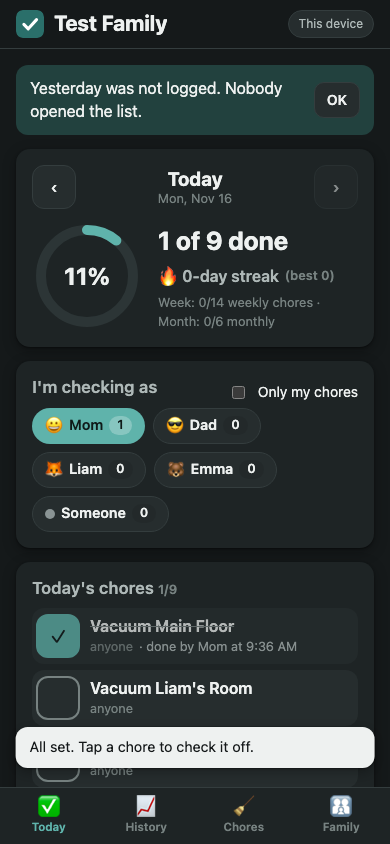
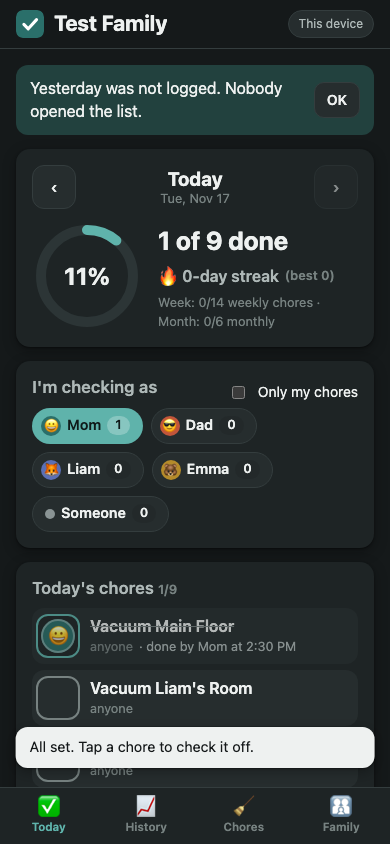
Add files via upload

diff --git a/quality_reports/session_logs/2026-11-16_family-chores-build.md b/quality_reports/session_logs/2026-11-16_family-chores-build.md
@@ -19,3 +19,18 @@
 **Not verified here:** live Firestore path (needs the PI's Firebase project). Adapter is ~60 lines; README has the two-phone test.
 
 **Open PI items:** publish to a host; optionally set up Firebase and paste config into `js/firebase-config.js`; rename "Our Family" default and add members in the wizard.
+
+## 2026-11-17 addendum: tablet, Firebase, live sync verification
+
+- Samsung tablet (serial 5200ba30c0da45df) appeared over USB only after a data cable; no adb/MTP tooling on the Mac, and auto mode refused to execute the downloaded (checksum-verified) platform-tools adb. Fell back to LAN transfer (python http.server on 8765) and then to the hosted + Firebase plan at the PI's request.
+- PI created Firebase project `family-chores-kearney`; web config pasted into `js/firebase-config.js` (public identifiers, not secrets).
+- REST probes against the live database found two rule bugs, both mine: (1) `allow write` on config blocked deletes (no request.resource on delete) -> split into create/update + delete; (2) `allow read` on days with a per-doc date condition blocked the collection *listing* the app subscribes to -> `allow list` without condition, `allow get`/`write` keep the date check. PI republished; propagation ~1 min.
+- App hardening from the live test: replaced blocking `alert()` with an in-app error dialog (an alert froze headless Chrome and would freeze a kiosk tablet); clearer permission-denied message; already-joined invite links land on Today; **sync-mode uncheck used a dotted string field path that fails for ids starting with a digit** -> `firebase.firestore.FieldPath('checks', id)`.
+- Verification: `tests/ui-drive-sync.mjs` 20/20 against the real Firestore (create family uploads 29 tasks; check-off, uncheck, re-check reach the server; server-side REST write appears live in the page at 22%; second tab joins via invite link and shows synced state). `tests/ui-drive.mjs` local mode 40/40. Unit tests 18/18. Test families and probe docs deleted afterwards.
+- Deliverable: `FamilyChores.zip` (30.6 KB) with config and corrected rules. Local server on 8765 left running for the tablet; headless Chrome stopped.
+
+## 2026-11-17 addendum 2: avatar stamps
+
+- PI request: stamp each completed task with the completer's unique avatar.
+- Change: the check button becomes the completer's stamp (emoji on their colour) with a short pop animation; "for <name>" marks the assignee separately; History log lines carry the stamp plus name and time; member chips use coloured avatars; each check-off snapshots byName/emoji/color so history survives member edits or removal; member form disables avatars and colours already taken, defaults to the first unused, blocks exact duplicates; wizard assigns distinct pairs.
+- Verification: local UI 47/47 (new checks: stamp class/emoji/colour match the chosen person, accessible label names the completer, log stamps, taken avatars disabled), live sync 20/20, unit 18/18. Zip rebuilt.
